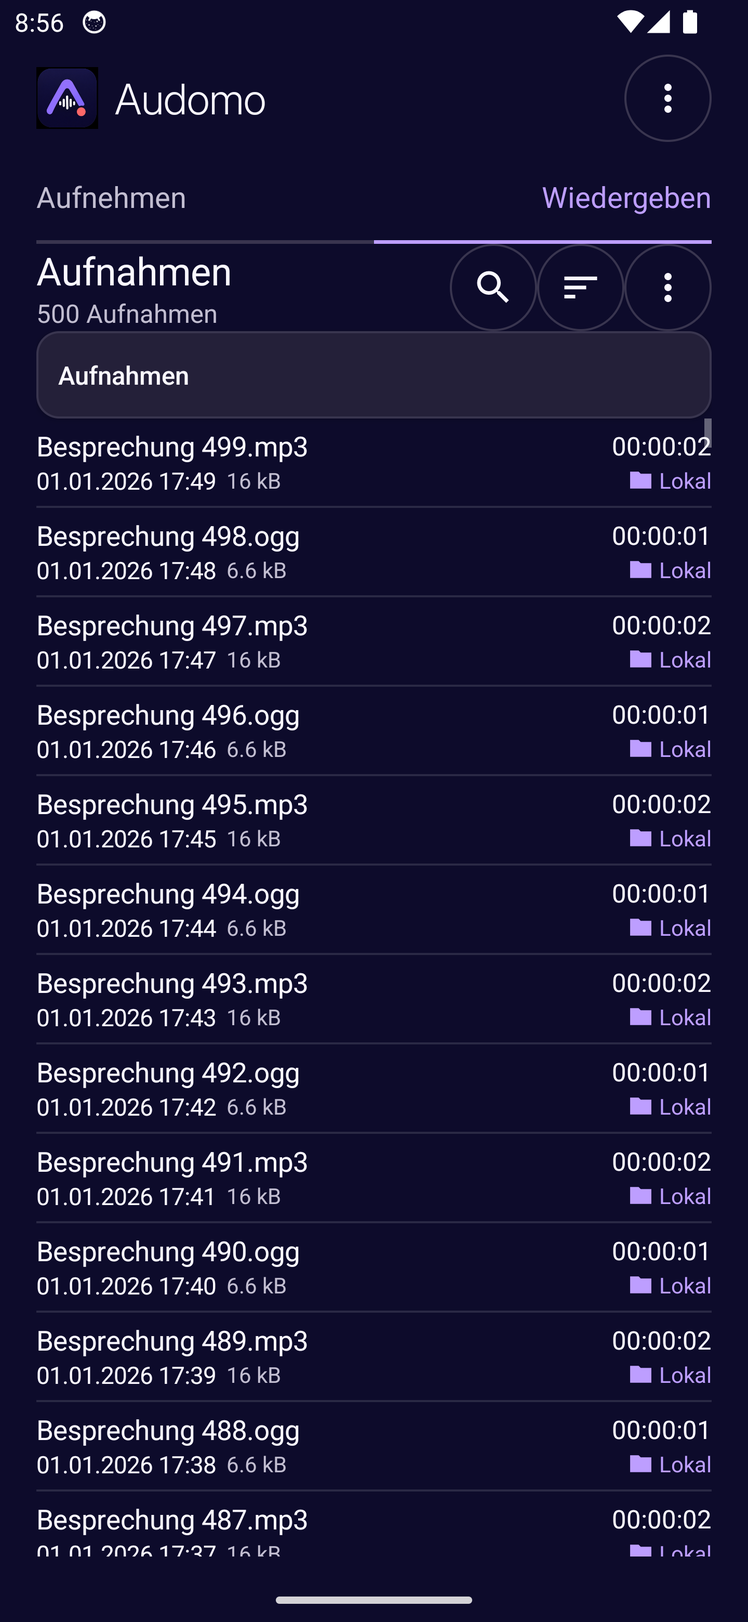
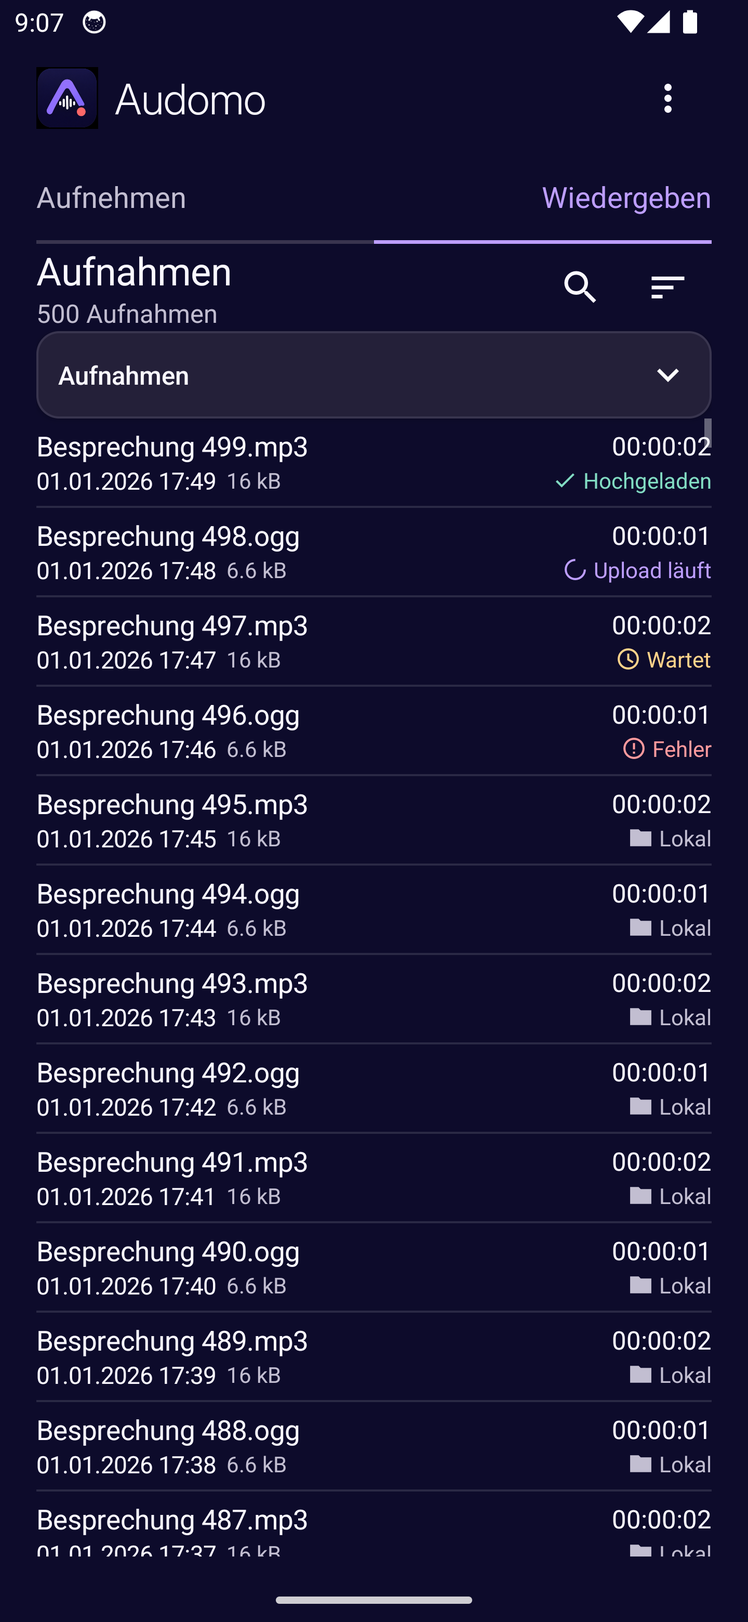
Listenmaster, Uploadsymbole und Navigation am API-34-Gerät abgleichen

diff --git a/app/src/main/java/de/audomo/LibraryView.java b/app/src/main/java/de/audomo/LibraryView.java
@@ -54,71 +54,11 @@ final class LibraryView {
         titles.addView(screen.text(trash ? "Papierkorb" : "Aufnahmen", 21, MainActivity.INK));
         titles.addView(count);
         heading.addView(titles, screen.weight());
-        ImageButton menuButton =
-                screen.icon(
-                        "Bibliotheksaktionen",
-                        R.drawable.ic_more,
-                        MainActivity.INK,
-                        MainActivity.BG);
-        menuButton.setOnClickListener(v -> {
-            PopupMenu menu = new PopupMenu(screen, menuButton);
-            if (!trash) LibraryActions.item(menu, "Aufnahmen importieren", screen::pickImport);
-            LibraryActions.item(
-                    menu,
-                    trash ? "Zur Bibliothek" : "Papierkorb",
-                    () -> {
-                        screen.trashView = !trash;
-                        screen.showLibrary();
-                    });
-            if (trash) {
-                menu.getMenu()
-                        .add("Nach 30 Tagen bereinigen")
-                        .setCheckable(true)
-                        .setChecked(prefs.getBoolean("cleanTrash", false))
-                        .setOnMenuItemClickListener(item -> {
-                            boolean on = !item.isChecked();
-                            if (on)
-                                new AlertDialog.Builder(screen)
-                                        .setTitle("Dateien nach 30 Tagen endgültig löschen?")
-                                        .setPositiveButton(
-                                                "Aktivieren",
-                                                (d, w) -> {
-                                                    prefs.edit()
-                                                            .putBoolean("cleanTrash", true)
-                                                            .apply();
-                                                    screen.runFiles(() -> {
-                                                        actions.files.cleanOld();
-                                                        return "Bereinigung aktiv";
-                                                    });
-                                                })
-                                        .setNegativeButton("Abbrechen", null)
-                                        .show();
-                            else prefs.edit().putBoolean("cleanTrash", false).apply();
-                            return true;
-                        });
-                if (!visible.isEmpty())
-                    LibraryActions.item(
-                            menu,
-                            "Papierkorb leeren",
-                            () -> actions.trash(List.copyOf(visible), true));
-            }
-            menu.show();
-        });
-        ImageButton search =
-                screen.icon(
-                        "Aufnahmen durchsuchen",
-                        R.drawable.ic_search,
-                        MainActivity.INK,
-                        MainActivity.BG);
-        ImageButton sort =
-                screen.icon(
-                        "Aufnahmen sortieren",
-                        R.drawable.ic_sort,
-                        MainActivity.INK,
-                        MainActivity.BG);
+        ImageButton search = screen.toolbarIcon("Aufnahmen durchsuchen", R.drawable.ic_search);
+        ImageButton sort = screen.toolbarIcon("Aufnahmen sortieren", R.drawable.ic_sort);
         heading.addView(search, screen.lp(48, 48));
         heading.addView(sort, screen.lp(48, 48));
-        heading.addView(menuButton, screen.lp(48, 48));
+
         folderButton =
                 screen.button(
                         "",
@@ -131,6 +71,7 @@ final class LibraryView {
                                         }));
         folderButton.setGravity(Gravity.START | Gravity.CENTER_VERTICAL);
         folderButton.setPadding(screen.dp(12), 0, screen.dp(12), 0);
+        folderButton.setCompoundDrawablesRelativeWithIntrinsicBounds(0, 0, R.drawable.ic_expand, 0);
         folderButton.setContentDescription("Ordner wählen");
         if (!trash) page.addView(folderButton);
         CheckBox allScope = new CheckBox(screen);
@@ -248,21 +189,28 @@ final class LibraryView {
                                         MainActivity.DIM),
                                 screen.weight());
                         UploadQueue.Job job = uploads.get(e.id());
-                        TextView status =
-                                screen.text(
-                                        job == null ? "Lokal" : job.state(),
-                                        12,
-                                        MainActivity.ACCENT);
-                        int statusIcon =
-                                job == null
-                                        ? R.drawable.ic_folder
-                                        : "Hochgeladen".equals(job.state())
-                                                ? R.drawable.ic_check
-                                                : R.drawable.ic_upload;
+                        String state = job == null ? "Lokal" : job.state();
+                        int color =
+                                switch (state) {
+                                    case "Hochgeladen" -> 0xff82dcc3;
+                                    case "Wartet" -> 0xffffd38a;
+                                    case "Fehler", "Konflikt" -> 0xffff9a9d;
+                                    case "Upload läuft" -> MainActivity.ACCENT;
+                                    default -> MainActivity.DIM;
+                                };
+                        int icon =
+                                switch (state) {
+                                    case "Hochgeladen" -> R.drawable.ic_check;
+                                    case "Wartet" -> R.drawable.ic_wait;
+                                    case "Fehler", "Konflikt" -> R.drawable.ic_problem;
+                                    case "Upload läuft" -> R.drawable.ic_progress;
+                                    default -> R.drawable.ic_folder;
+                                };
+                        TextView status = screen.text(state, 12, color);
                         android.graphics.drawable.Drawable symbol =
-                                screen.getDrawable(statusIcon).mutate();
+                                screen.getDrawable(icon).mutate();
                         symbol.setBounds(0, 0, screen.dp(14), screen.dp(14));
-                        symbol.setTint(MainActivity.ACCENT);
+                        symbol.setTint(color);
                         status.setCompoundDrawables(symbol, null, null, null);
                         status.setCompoundDrawablePadding(screen.dp(3));
                         if (job != null)
@@ -345,6 +293,45 @@ final class LibraryView {
                     }
                 });
         if (page.isAttachedToWindow()) handler.post(refreshStatus);
+    }
+
+    void addMenu(PopupMenu menu) {
+        if (!trash) LibraryActions.item(menu, "Aufnahmen importieren", screen::pickImport);
+        LibraryActions.item(
+                menu,
+                trash ? "Zur Bibliothek" : "Papierkorb",
+                () -> {
+                    screen.trashView = !trash;
+                    screen.showLibrary();
+                });
+        if (trash) {
+            menu.getMenu()
+                    .add("Nach 30 Tagen bereinigen")
+                    .setCheckable(true)
+                    .setChecked(prefs.getBoolean("cleanTrash", false))
+                    .setOnMenuItemClickListener(item -> {
+                        boolean on = !item.isChecked();
+                        if (on)
+                            new AlertDialog.Builder(screen)
+                                    .setTitle("Dateien nach 30 Tagen endgültig löschen?")
+                                    .setPositiveButton(
+                                            "Aktivieren",
+                                            (d, w) -> {
+                                                prefs.edit().putBoolean("cleanTrash", true).apply();
+                                                screen.runFiles(() -> {
+                                                    actions.files.cleanOld();
+                                                    return "Bereinigung aktiv";
+                                                });
+                                            })
+                                    .setNegativeButton("Abbrechen", null)
+                                    .show();
+                        else prefs.edit().putBoolean("cleanTrash", false).apply();
+                        return true;
+                    });
+            if (!visible.isEmpty())
+                LibraryActions.item(
+                        menu, "Papierkorb leeren", () -> actions.trash(List.copyOf(visible), true));
+        }
     }
 
     private void refreshJobs() {

diff --git a/app/src/androidTest/java/de/audomo/LibraryUiDeviceTest.java b/app/src/androidTest/java/de/audomo/LibraryUiDeviceTest.java
@@ -92,7 +92,12 @@ public class LibraryUiDeviceTest {
     @Test
     public void fiveHundredRowsSearchSelectionPlayerAndSettings() throws Exception {
         Context ctx = inst.getTargetContext();
+        org.junit.Assume.assumeTrue(android.os.Build.MODEL.contains("sdk_gphone"));
         Audomo app = (Audomo) ctx.getApplicationContext();
+        UploadQueue q = UploadQueue.get(ctx);
+        org.junit.Assume.assumeTrue("Isolierter Emulator ohne aktive Übertragung", !q.pending());
+        String syntheticTarget = "QA-UI-" + UUID.randomUUID();
+        List<String> states = List.of("Hochgeladen", "Upload läuft", "Wartet", "Fehler");
         SessionStore original = app.sessions;
         File temp = Files.createTempDirectory(ctx.getCacheDir().toPath(), "qa-library-").toFile();
         Context isolated =
@@ -130,6 +135,16 @@ public class LibraryUiDeviceTest {
                 if (ogg) name = name.replace(".mp3", ".ogg");
                 File dir = new File(fixtures.root, UUID.randomUUID().toString());
                 Files.createDirectory(dir.toPath());
+                if (i >= 496)
+                    q.getWritableDatabase()
+                            .execSQL(
+                                    "INSERT INTO jobs(rec,target,path,state) VALUES(?,?,?,?)",
+                                    new Object[] {
+                                        dir.getName(),
+                                        syntheticTarget,
+                                        "/QA/" + name,
+                                        states.get(499 - i)
+                                    });
                 String physical = ogg ? "audio.ogg" : "audio.mp3";
                 if (ogg) {
                     try (InputStream in = inst.getContext().getAssets().open("testsignal.ogg")) {
@@ -161,6 +176,11 @@ public class LibraryUiDeviceTest {
                     find(root, ListView.class, null) != null
                             && find(root, ListView.class, null).getCount() == 500);
             ListView list = find(root, ListView.class, null);
+            for (String state : states) {
+                TextView label = find(root, TextView.class, state);
+                assertNotNull(state, label);
+                assertNotNull(label.getCompoundDrawables()[0]);
+            }
             shot(ctx, "liste-500");
             ui(() -> list.performItemClick(list.getChildAt(0), 0, 0));
             await(() -> find(root, Button.class, "Umbenennen") != null);
@@ -241,6 +261,7 @@ public class LibraryUiDeviceTest {
                 ui(activity::finish);
                 inst.waitForIdleSync();
             }
+            q.getWritableDatabase().delete("jobs", "target=?", new String[] {syntheticTarget});
             app.sessions = original;
             prefs.edit()
                     .putString("folder", previousFolder)

diff --git a/qa/protocol_servers.py b/qa/protocol_servers.py
@@ -29,7 +29,18 @@ from pyftpdlib.servers import FTPServer
 
 parser = argparse.ArgumentParser()
 parser.add_argument("directory", type=Path)
-work = parser.parse_args().directory
+parser.add_argument("--adb-reverse", action="store_true", help="Use emulator loopback with adb reverse on all fixture ports")
+args=parser.parse_args()
+work=args.directory.resolve()
+client_host="127.0.0.1" if args.adb_reverse else "10.0.2.2"
+passive_ports=[]
+if args.adb_reverse:
+    reservations=[socket.socket() for _ in range(12)]
+    for reservation in reservations:
+        reservation.bind(("127.0.0.1",0))
+        passive_ports.append(reservation.getsockname()[1])
+    for reservation in reservations:
+        reservation.close()
 work.mkdir(mode=0o700, exist_ok=False)
 roots = {name: work / name for name in ("FTP", "FTPS", "SFTP", "WebDAV")}
 for path in roots.values():
@@ -113,7 +124,9 @@ ports["WebDAV"]=dav.server_port;threading.Thread(target=dav.serve_forever,daemon
 
 for name,handler in (("FTP",FTPHandler),("FTPS",TLS_FTPHandler)):
     auth=DummyAuthorizer();auth.add_user("qa",password,str(roots[name]),perm="elradfmwMT")
-    cls=type("PrivateFixture",(handler,),{"authorizer":auth,"masquerade_address":"10.0.2.2"})
+    cls=type("PrivateFixture",(handler,),{"authorizer":auth,"masquerade_address":client_host})
+    if passive_ports:
+        cls.passive_ports=passive_ports[:6] if name=="FTP" else passive_ports[6:]
     if name=="FTPS":
         cls.certfile=str(work/"server.pem");cls.keyfile=str(work/"key.pem");cls.tls_control_required=True;cls.tls_data_required=True
     service=FTPServer(("127.0.0.1",0),cls,ioloop=IOLoop());ports[name]=service.socket.getsockname()[1]
@@ -163,5 +176,5 @@ def serve_ssh():
             finally:transport.close()
         threading.Thread(target=run,args=(conn,),daemon=True).start()
 threading.Thread(target=serve_ssh,daemon=True).start()
-(work/"client.json").write_text(json.dumps({"password":password,"ports":ports,"ca":ca.public_bytes(pem).decode(),"hostKey":host_key.get_name()+" "+host_key.get_base64()}))
+(work/"client.json").write_text(json.dumps({"host":client_host,"passivePorts":passive_ports,"password":password,"ports":ports,"ca":ca.public_bytes(pem).decode(),"hostKey":host_key.get_name()+" "+host_key.get_base64()}))
 while True:time.sleep(5)

diff --git a/app/src/main/java/de/audomo/MainActivity.java b/app/src/main/java/de/audomo/MainActivity.java
@@ -140,7 +140,7 @@ public final class MainActivity extends Activity {
         brand.setPadding(dp(9), 0, 0, 0);
         brand.setTypeface(getResources().getFont(R.font.inter_display_light));
         header.addView(brand, weight());
-        ImageButton more = icon("Weitere Optionen", R.drawable.ic_more, INK, BG);
+        ImageButton more = toolbarIcon("Weitere Optionen", R.drawable.ic_more);
         more.setOnClickListener(v -> menu(more));
         header.addView(more, lp(48, 48));
         LinearLayout tabs = row();
@@ -399,6 +399,7 @@ public final class MainActivity extends Activity {
     private void menu(View anchor) {
         PopupMenu menu = new PopupMenu(this, anchor);
         LibraryActions.item(menu, "Einstellungen", () -> preferences.show());
+        if (library && recordings != null) recordings.addMenu(menu);
         LibraryActions.item(menu, "Einrichtung", () -> preferences.onboarding());
         LibraryActions.item(menu, "Uploads", () -> preferences.upload(null));
         menu.getMenu()
@@ -732,6 +733,15 @@ public final class MainActivity extends Activity {
         b.setBackground(surface(PANEL, 12));
         b.setOnClickListener(action);
         return b;
+    }
+
+    ImageButton toolbarIcon(String label, int resource) {
+        ImageButton button = icon(label, resource, INK, BG);
+        android.util.TypedValue ripple = new android.util.TypedValue();
+        if (getTheme()
+                .resolveAttribute(android.R.attr.selectableItemBackgroundBorderless, ripple, true))
+            button.setBackgroundResource(ripple.resourceId);
+        return button;
     }
 
     ImageButton icon(String label, int res, int tint, int color) {

diff --git a/app/src/androidTest/java/de/audomo/StorageProviderDeviceTest.java b/app/src/androidTest/java/de/audomo/StorageProviderDeviceTest.java
@@ -23,7 +23,13 @@ public class StorageProviderDeviceTest {
     @Test
     public void verifiedCopyMoveRestoreAndIndexMarker() throws Exception {
         Context ctx = InstrumentationRegistry.getInstrumentation().getTargetContext();
-        String selected = Profile.prefs(ctx).getString("documentTree", "");
+        String selected =
+                ctx.getContentResolver().getPersistedUriPermissions().stream()
+                        .filter(grant -> grant.isReadPermission() && grant.isWritePermission())
+                        .map(grant -> grant.getUri().toString())
+                        .filter(uri -> uri.endsWith("Audomo-QA-020"))
+                        .findFirst()
+                        .orElse("");
         Assume.assumeTrue(
                 "Nur der im Emulator freigegebene QA-Ordner",
                 android.os.Build.MODEL.contains("sdk_gphone")

diff --git a/app/src/main/java/de/audomo/AppSettings.java b/app/src/main/java/de/audomo/AppSettings.java
@@ -36,8 +36,8 @@ final class AppSettings {
             page.setPadding(screen.dp(16), 0, screen.dp(16), 0);
             LinearLayout header = screen.row();
             page.addView(header);
-            Button back = screen.button("‹", v -> dialog.dismiss());
-            back.setContentDescription("Zurück");
+            ImageButton back = screen.toolbarIcon("Zurück", R.drawable.ic_arrow_back);
+            back.setOnClickListener(v -> dialog.dismiss());
             header.addView(back, screen.lp(48, 48));
             header.addView(screen.text(title, 22, MainActivity.INK), screen.weight());
             ScrollView scroll = new ScrollView(screen);

diff --git a/app/src/androidTest/java/de/audomo/UploadRestartDeviceTest.java b/app/src/androidTest/java/de/audomo/UploadRestartDeviceTest.java
@@ -54,7 +54,7 @@ public class UploadRestartDeviceTest {
                     new CloudConfig(
                             UUID.randomUUID().toString(),
                             "FTP",
-                            "10.0.2.2",
+                            setup.optString("host", "10.0.2.2"),
                             setup.getJSONObject("ports").getInt("FTP"),
                             "qa",
                             "/",

diff --git a/app/src/androidTest/java/de/audomo/UploadQueueDeviceTest.java b/app/src/androidTest/java/de/audomo/UploadQueueDeviceTest.java
@@ -50,7 +50,7 @@ public class UploadQueueDeviceTest {
                 new CloudConfig(
                         UUID.randomUUID().toString(),
                         "FTP",
-                        "10.0.2.2",
+                        setup.optString("host", "10.0.2.2"),
                         setup.getJSONObject("ports").getInt("FTP"),
                         "qa",
                         "/",

diff --git a/app/src/androidTest/java/de/audomo/ProtocolDeviceTest.java b/app/src/androidTest/java/de/audomo/ProtocolDeviceTest.java
@@ -40,7 +40,7 @@ public class ProtocolDeviceTest {
                 new CloudConfig(
                         UUID.randomUUID().toString(),
                         type,
-                        "10.0.2.2",
+                        j.optString("host", "10.0.2.2"),
                         j.getJSONObject("ports").getInt(type),
                         "qa",
                         "/",

diff --git a/qa/ABNAHME-0.2.md b/qa/ABNAHME-0.2.md
@@ -48,7 +48,7 @@ Stand 22.11.2026. API 34, ARM64. Die normale Referenzinstanz war Galaxy_S24_Ultr
 | T40 Einstellungen | PASS Kernlogik | JSON-Rundlauf für Profil, Kalenderregeln und Schema, Ablehnung unbekannter Version, Kalenderzuordnung bei neuer Installation zurückgesetzt. |
 | T41 Diagnose | TEILPRÜFUNG | Inline-Aufnahmefehler bei Mikrofonsperre beobachtet. Uploadfehler-Notification samt manuellen Aktionen auf One UI offen. |
 | T42 Werbung und Tracking | TEILPRÜFUNG | Laufzeitabhängigkeiten und Manifest inventarisiert. Internetzugriff für ausdrücklich konfigurierte Uploads. Vollständiger Netzwerk-Mitschnitt bei Alltagsnutzung offen. |
-| T43 Visuelle Abnahme | TEILPRÜFUNG | H1, Liste mit 500 Einträgen, ausgeklappter Player, F2 und Mehrfachauswahl als reale Screenshots geprüft. Zuordnung aller 52 Beschlüsse liegt vor. |
+| T43 Visuelle Abnahme | TEILPRÜFUNG | [H1](api34/einstellungen.png), [Liste mit 500 Einträgen und vier Uploadzuständen](api34/liste-500.png), ausgeklappter Player, [F2](api34/dateiaktionen.png) und [Mehrfachauswahl](api34/mehrfachauswahl.png) als reale Screenshots geprüft. Zuordnung aller 52 Beschlüsse liegt vor. |
 | T44 Darstellung und Bedienbarkeit | TEILPRÜFUNG | Neun Einstellungswege über die Oberfläche aufgerufen, einschließlich Diagnosefilter und Protokollauswahl. H1 und Einstellungs-Export bei 150 % Systemschrift über Scrollen erreichbar. TalkBack, gesamte Oberfläche und lange Konflikttexte auf One UI offen. |
 
 ## Durchgeführte Läufe
@@ -66,18 +66,18 @@ Der 30-Minuten-Versuch lief vor der Aktualisierung mit Version 0.1.3. Die Aufnah
 
 ### Cloudprüfung
 
-Alle vier Testserver liefen auf der Loopbackadresse des Mac. Die App auf dem Emulator übertrug synthetische Daten. WebDAV und FTPS wurden einmal mit unbekannter und einmal mit der nur im Test eingesetzten Zertifizierungsstelle angesprochen. Der SFTP-Test verwendete den festgelegten öffentlichen Hostschlüssel. Zu den Prüfungen gehörten Ordner mit Umlaut, Erstübertragung, Auslesen, Namenskonflikt, überprüftes Ersetzen und Entfernen. Bei FTP und SFTP lassen sich konkurrierende Änderungen durch fremde Clients zwischen der letzten Prüfung und der Serveroperation nicht allgemein atomar ausschließen.
+Alle vier Testserver liefen auf der Loopbackadresse des Mac. Die App auf dem Emulator übertrug synthetische Daten. Beim Wiederholen über den NAT-Alias 10.0.2.2 traten auch Verbindungszeitüberschreitungen auf. Der abschließende Lauf nutzte deshalb ADB-Portweiterleitungen auf die Loopbackadresse des Emulators. Alle 15 Instrumentierungstests bestanden. Die temporären Weiterleitungen wurden anschließend entfernt. WebDAV und FTPS wurden einmal mit unbekannter und einmal mit der nur im Test eingesetzten Zertifizierungsstelle angesprochen. Der SFTP-Test verwendete den festgelegten öffentlichen Hostschlüssel. Zu den Prüfungen gehörten Ordner mit Umlaut, Erstübertragung, Auslesen, Namenskonflikt, überprüftes Ersetzen und Entfernen. Bei FTP und SFTP lassen sich konkurrierende Änderungen durch fremde Clients zwischen der letzten Prüfung und der Serveroperation nicht allgemein atomar ausschließen.
 
 Dropbox blieb ohne Kontoanmeldung. Auf dem S24 und im Emulator prüfte ein vollständig lokaler Transport den PKCE-Challenge, den Token-Refresh-Aufruf sowie Start, Offset und Abschluss einer mehrteiligen Upload-Anfrage über 16 MiB. Eine Zustimmung im Browser, der Austausch eines echten Codes und die Serverantworten von Dropbox sind offen. Die eingebundene API folgt der Anbieterdokumentation. [Dropbox OAuth](https://developers.dropbox.com/oauth-guide) · [Dropbox-Dateizugriff](https://developers.dropbox.com/dbx-file-access-guide)
 
 ### Reproduzieren
 
-Die Geräteklassen stehen unter `app/src/androidTest/java/de/audomo/`. Für die vier lokalen Protokolltests `qa/protocol_servers.py` in einer Python-Umgebung mit pyftpdlib, pyOpenSSL, cryptography und Paramiko mit einem neuen temporären Verzeichnis starten. Dessen synthetische Verbindungsdaten aus `client.json` nur ins private Cacheverzeichnis des QA-Emulators als `qa-protocols.json` übertragen. Die Instrumentierung für `ProtocolDeviceTest` und `UploadQueueDeviceTest` mit `-e localServers true` ausführen, anschließend den Cacheeintrag und das temporäre Serververzeichnis entfernen. `qa/upload_neustart.py` begrenzt den Neustarttest auf die separate Audomo-QA-AVD. Für den SAF-Test ist eine echte persistente Freigabe von `Documents/Audomo-QA-020` Voraussetzung. `RadioDeviceTest` benötigt eine ausdrücklich gestartete Messung mit `-e radioMinutes 30`.
+Die Geräteklassen stehen unter `app/src/androidTest/java/de/audomo/`. Für die vier lokalen Protokolltests `qa/protocol_servers.py` in einer Python-Umgebung mit pyftpdlib, pyOpenSSL, cryptography und Paramiko mit einem neuen temporären Verzeichnis starten. Dessen synthetische Verbindungsdaten aus `client.json` nur ins private Cacheverzeichnis des QA-Emulators als `qa-protocols.json` übertragen. Für die alternative Weiterleitung den Server mit `--adb-reverse` starten. Für jeden Kontrollport aus `ports` und jeden Datenport aus `passivePorts` des Testprofils auf dem Emulator `adb reverse tcp:PORT tcp:PORT` einrichten und nach dem Lauf mit `adb reverse --remove tcp:PORT` entfernen. Die Instrumentierung für `ProtocolDeviceTest` und `UploadQueueDeviceTest` mit `-e localServers true` ausführen, anschließend den Cacheeintrag und das temporäre Serververzeichnis entfernen. `qa/upload_neustart.py` begrenzt den Neustarttest auf die separate Audomo-QA-AVD. Für den SAF-Test ist eine echte persistente Freigabe von `Documents/Audomo-QA-020` Voraussetzung. `RadioDeviceTest` benötigt eine ausdrücklich gestartete Messung mit `-e radioMinutes 30`.
 
 ### Auslieferung
 
 `Audomo-0.2-API34-debug.apk`, Versionscode 5, Paket `de.audomo`, minSdk 34, targetSdk 34. Der Android-Signaturprüfer bestätigt Schema v2. Die installierte Basis-APK auf dem S24 und die ausgelieferte Datei sind bytegleich.
 
 ```text
-SHA-256  2bf5aff50a7a5f2a4c482a15190d82cb934a7fffac75629bf6e320e5408388cd
+SHA-256  503c9ada73bffd675349b2ee8c2fbc8253e3c1441c915c428e28b20976e0f83a
 ```

diff --git a/qa/MOCKUPABGLEICH.md b/qa/MOCKUPABGLEICH.md
@@ -47,7 +47,7 @@ Grundlage sind die 50 Beschlüsse sowie 10a und 10b. Bei wiederkehrenden Element
 | 39 | [Ersteinrichtung E1](../../Audomo/mockups/referenzen/entscheidung_39_audomo_entscheidung39_E1_kompakt.png) | Einrichtung mit getrennten Android-Freigaben, Kachel und optionalem Cloudziel. |
 | 40 | [Quick Settings installieren Q1](../../Audomo/mockups/referenzen/entscheidung_40_audomo_entscheidung40_Q1_systemabfrage.png) | Android-Systemabfrage zum Hinzufügen der Kachel, Samsung-Hinweis bei Ablehnung. |
 | 41 | [Uploadfehler-Meldung N1](../../Audomo/mockups/referenzen/entscheidung_41_audomo_entscheidung41_N1_sofortmeldung.png) | Uploadfehler mit Retry und Details. Android-Benachrichtigung ohne Namen oder Pfade. |
-| 42 | [Uploadstatus B mit Kurztext](../../Audomo/mockups/aktuell/09_aufnahmeliste_aktuell.png) | Zustand mit Icon und Text in der Dateizeile. Lokaler Zustand am AVD dokumentiert. |
+| 42 | [Uploadstatus B mit Kurztext](../../Audomo/mockups/aktuell/09_aufnahmeliste_aktuell.png) | Hochgeladen, Upload läuft, Wartet und Fehler mit vier unterscheidbaren Symbolen, Kurztext und Statusfarbe. Als synthetische Warteschlangenzustände gemeinsam im Screenshot der 500-Dateien-Liste dokumentiert. |
 | 43 | [Uploaddetails D1](../../Audomo/mockups/referenzen/entscheidung_43_audomo_entscheidung43_D1_statusdetails_blatt.png) | Statusdetails als unteres Blatt, Retry und Warteschlange im Dateikontext. |
 | 44 | [Cloud-Umbenennen B](../../Audomo/mockups/referenzen/entscheidung_44_audomo_entscheidung44_B_umbenennen_cloud.png) | Opt-in beim Umbenennen für Dateien mit bestätigter Cloudkopie. |
 | 45 | [Namenskonflikt B mit drei Aktionen](../../Audomo/mockups/referenzen/entscheidung_45_audomo_entscheidung45_B_drei_buttons_nebeneinander.png) | Drei Konfliktaktionen in einer Reihe. Zusätzliche Bestätigung bei Überschreiben. |
